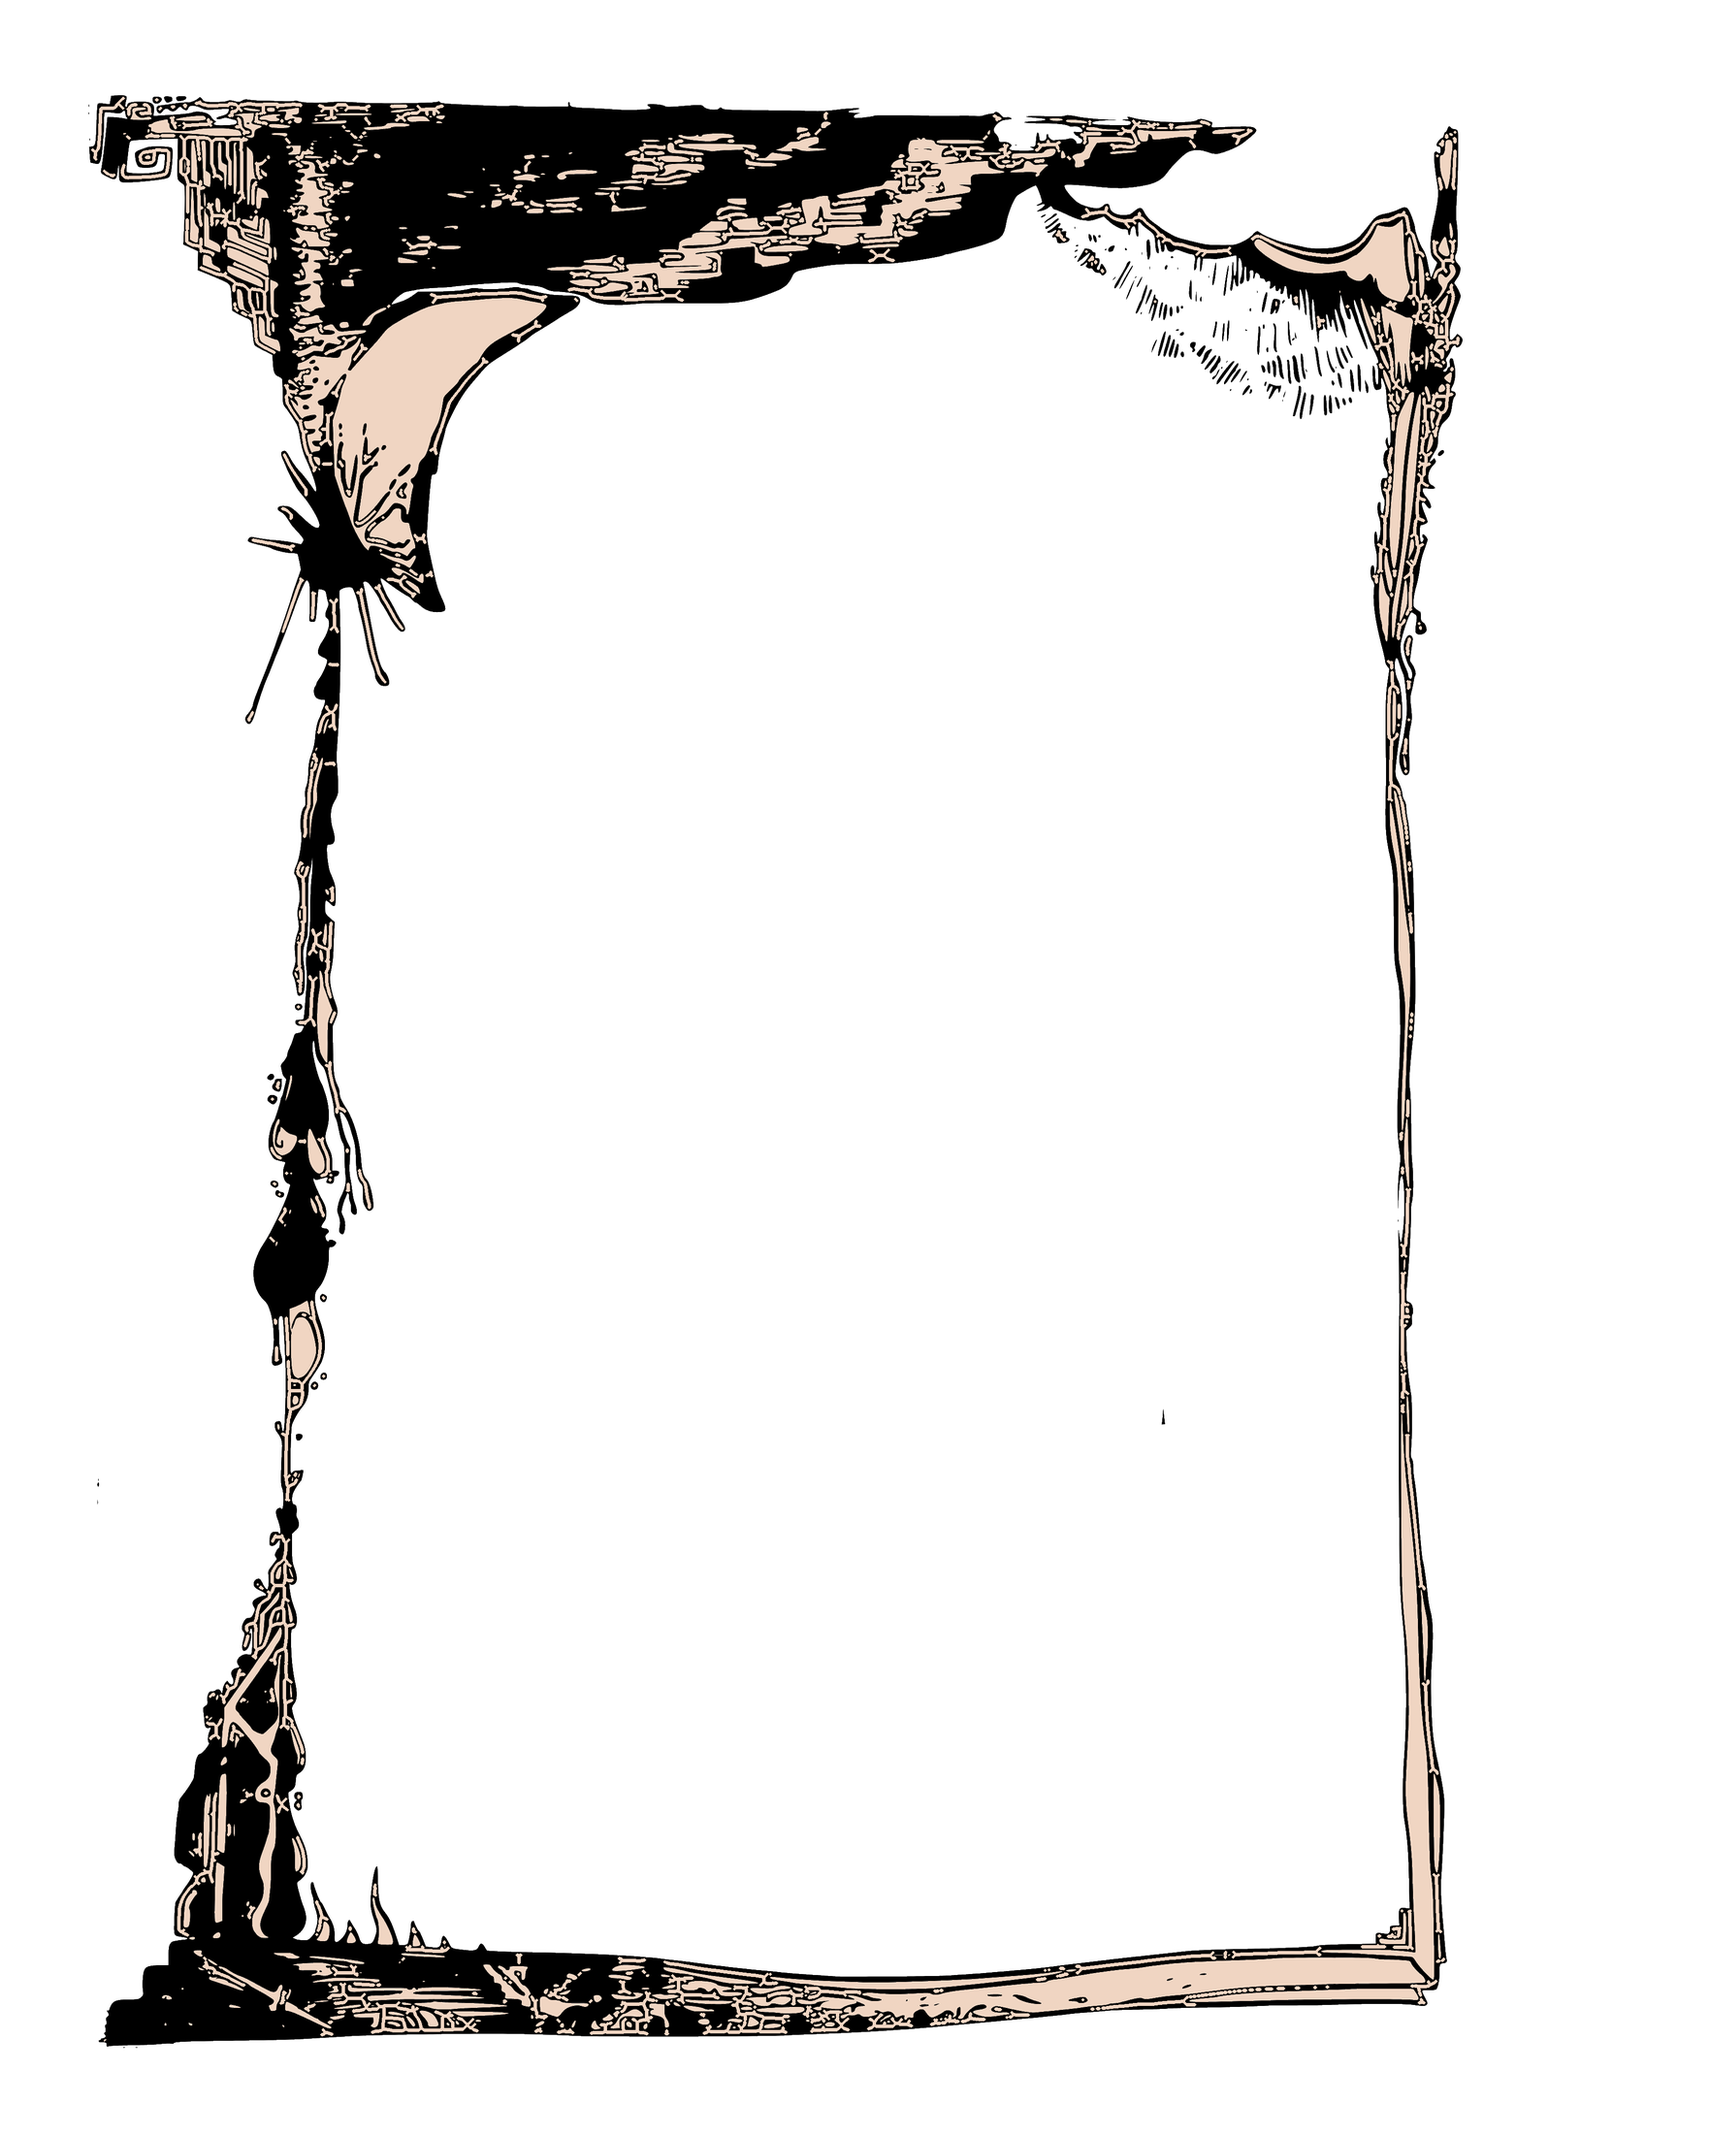
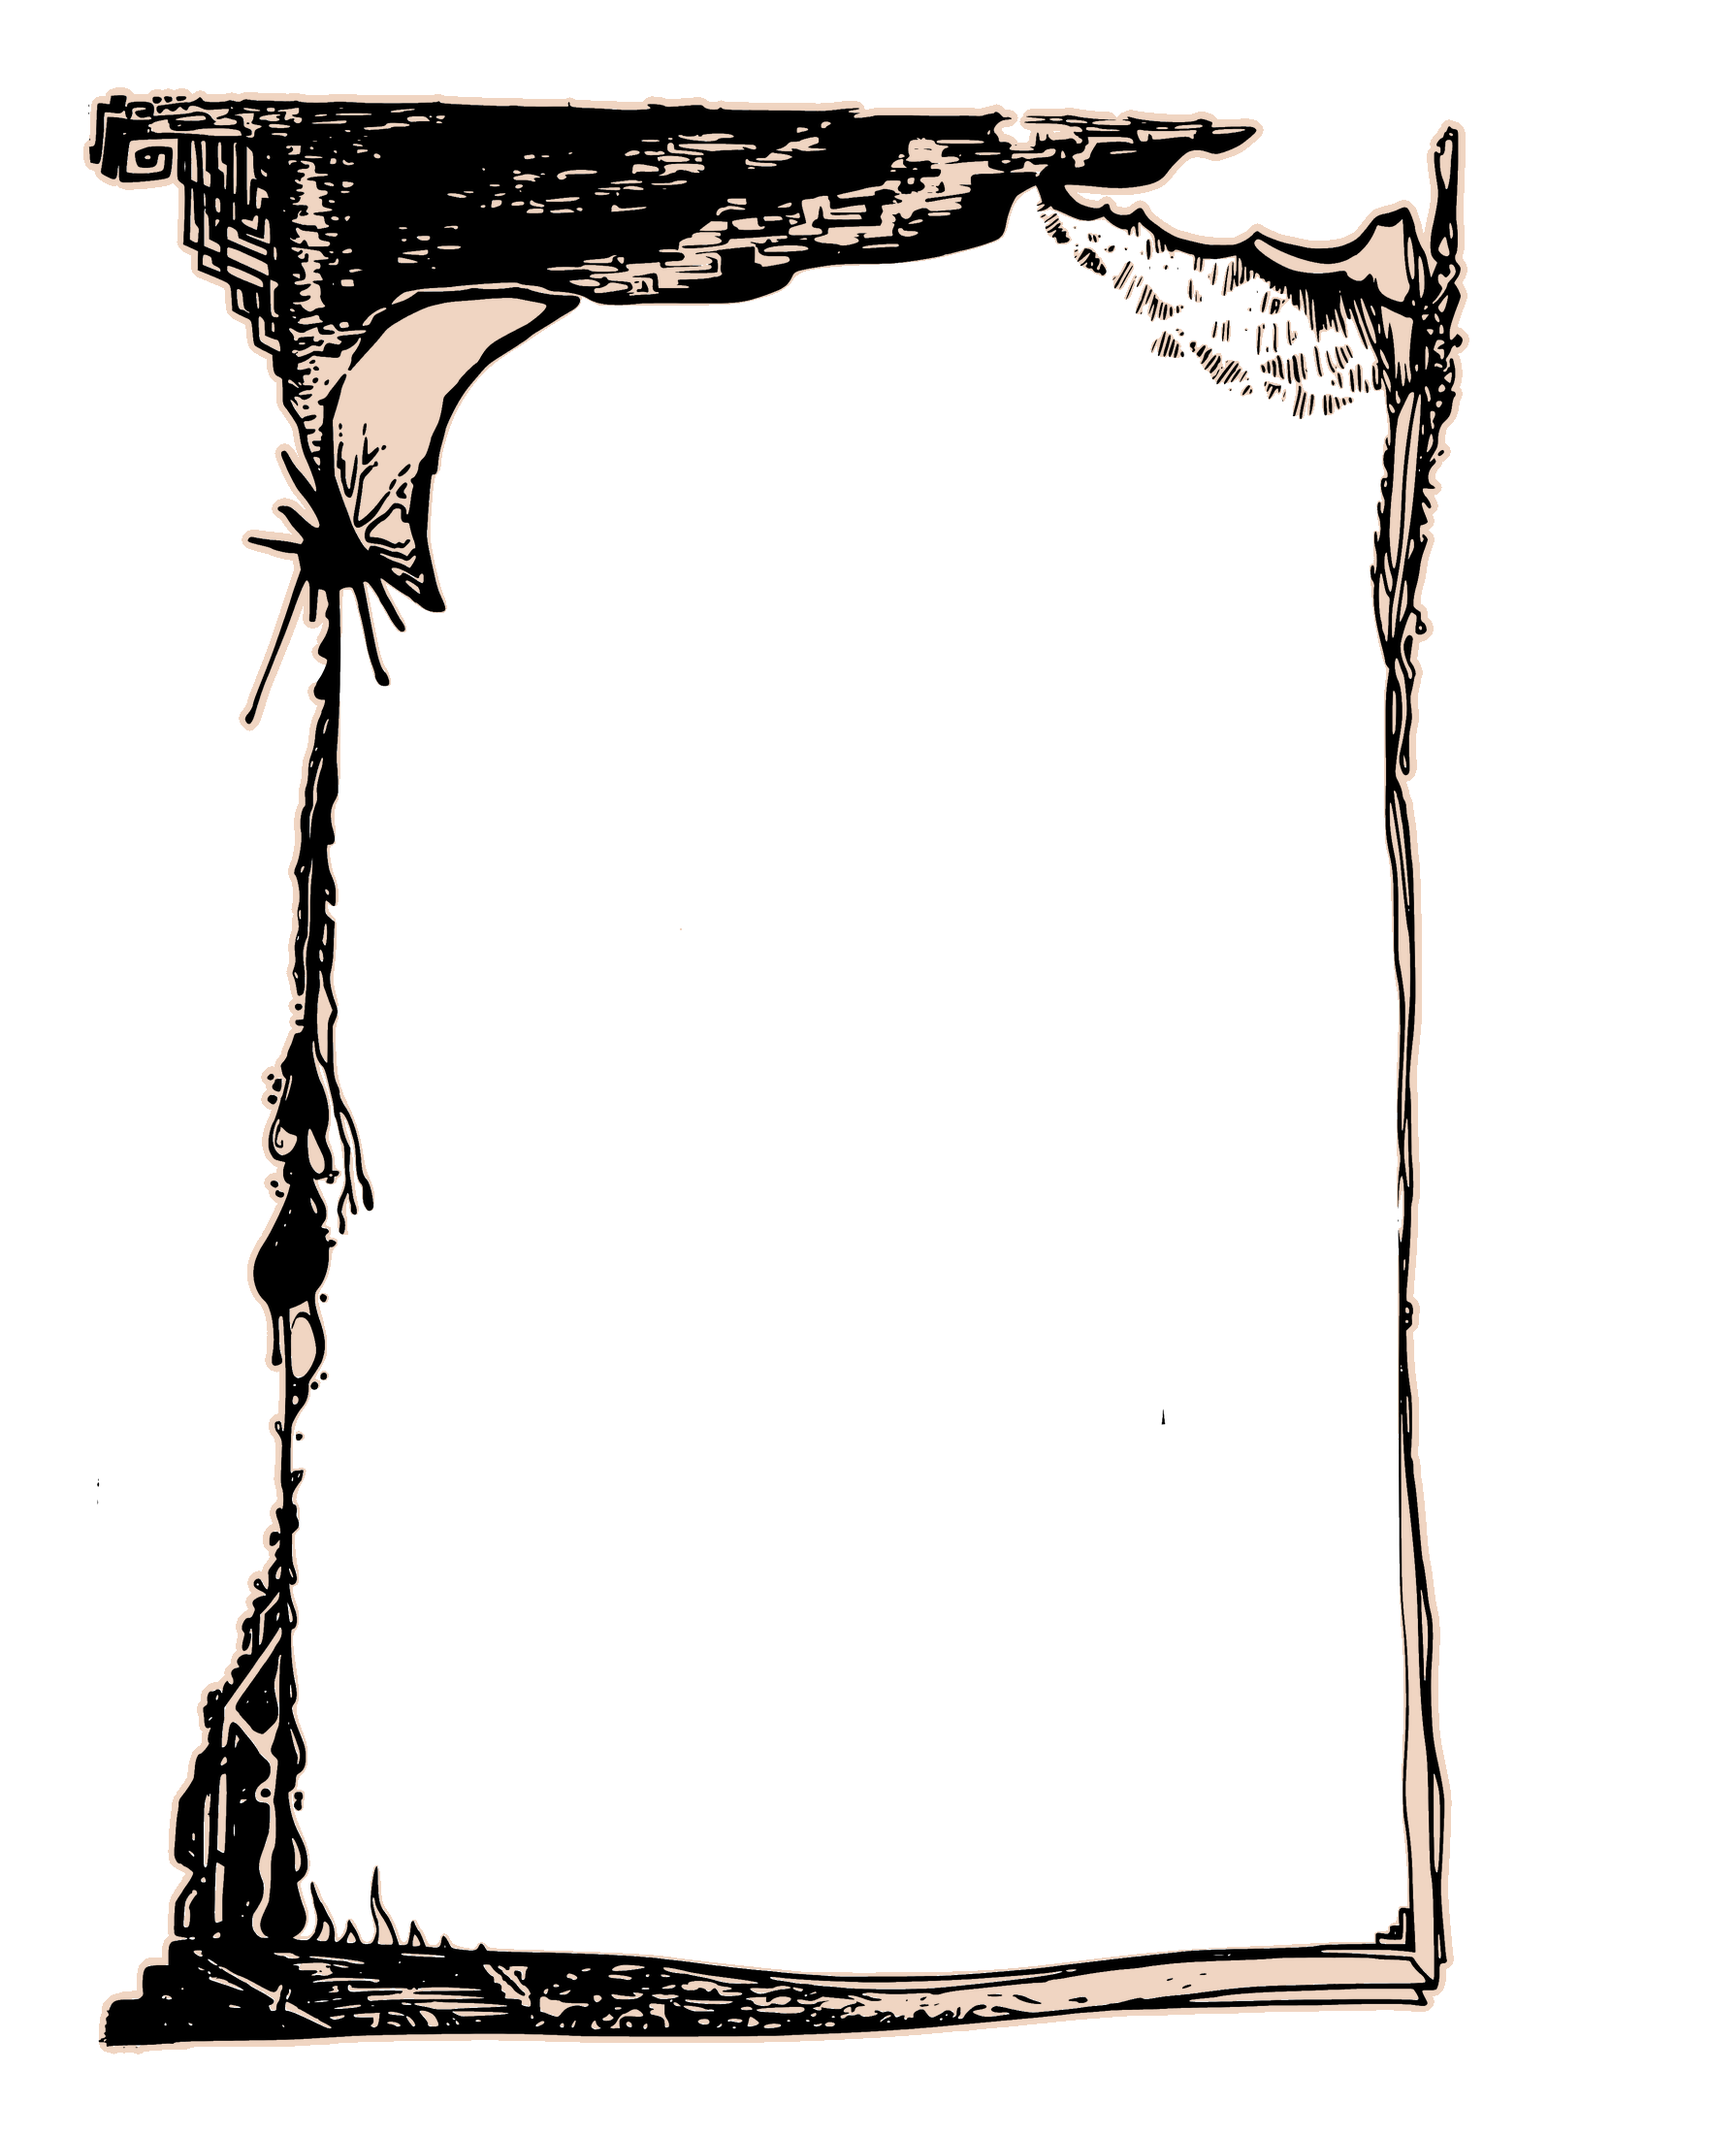
Composite the crisp vector ink over the established cream liseré
Simpler and more faithful than synthesizing the fringe: since the new
vector render and the old asset are already aligned, just take the
cream pixels straight from the established overlay (the real retouch,
not an approximation) and draw the new crisp ink on top of it. The
sharp new linework now carries the exact original liseré instead of a
skeleton-based guess.

diff --git a/audio-fr.html b/audio-fr.html
@@ -68,7 +68,7 @@
           </div>
         </div>
       </div>
-      <img src="audio-frame-overlay.png?v=11" alt="" class="native-audio-frame-overlay">
+      <img src="audio-frame-overlay.png?v=12" alt="" class="native-audio-frame-overlay">
     </div>
     <p class="bandcamp-link-below"><a class="content-link social-link" href="https://comodorosuleyman.bandcamp.com/" target="_blank" rel="noopener"><svg class="social-icon" viewBox="0 0 512 512" aria-hidden="true"><path fill="currentColor" d="M256,8C119,8,8,119,8,256S119,504,256,504,504,393,504,256,393,8,256,8Zm48.2,326.1h-181L207.9,178h181Z"/></svg>Écouter sur Bandcamp</a></p>
   </div>

diff --git a/audio-es.html b/audio-es.html
@@ -68,7 +68,7 @@
           </div>
         </div>
       </div>
-      <img src="audio-frame-overlay.png?v=11" alt="" class="native-audio-frame-overlay">
+      <img src="audio-frame-overlay.png?v=12" alt="" class="native-audio-frame-overlay">
     </div>
     <p class="bandcamp-link-below"><a class="content-link social-link" href="https://comodorosuleyman.bandcamp.com/" target="_blank" rel="noopener"><svg class="social-icon" viewBox="0 0 512 512" aria-hidden="true"><path fill="currentColor" d="M256,8C119,8,8,119,8,256S119,504,256,504,504,393,504,256,393,8,256,8Zm48.2,326.1h-181L207.9,178h181Z"/></svg>Escuchar en Bandcamp</a></p>
   </div>

diff --git a/audio-ro.html b/audio-ro.html
@@ -68,7 +68,7 @@
           </div>
         </div>
       </div>
-      <img src="audio-frame-overlay.png?v=11" alt="" class="native-audio-frame-overlay">
+      <img src="audio-frame-overlay.png?v=12" alt="" class="native-audio-frame-overlay">
     </div>
     <p class="bandcamp-link-below"><a class="content-link social-link" href="https://comodorosuleyman.bandcamp.com/" target="_blank" rel="noopener"><svg class="social-icon" viewBox="0 0 512 512" aria-hidden="true"><path fill="currentColor" d="M256,8C119,8,8,119,8,256S119,504,256,504,504,393,504,256,393,8,256,8Zm48.2,326.1h-181L207.9,178h181Z"/></svg>Ascultă pe Bandcamp</a></p>
   </div>

diff --git a/audio.html b/audio.html
@@ -68,7 +68,7 @@
           </div>
         </div>
       </div>
-      <img src="audio-frame-overlay.png?v=11" alt="" class="native-audio-frame-overlay">
+      <img src="audio-frame-overlay.png?v=12" alt="" class="native-audio-frame-overlay">
     </div>
     <p class="bandcamp-link-below"><a class="content-link social-link" href="https://comodorosuleyman.bandcamp.com/" target="_blank" rel="noopener"><svg class="social-icon" viewBox="0 0 512 512" aria-hidden="true"><path fill="currentColor" d="M256,8C119,8,8,119,8,256S119,504,256,504,504,393,504,256,393,8,256,8Zm48.2,326.1h-181L207.9,178h181Z"/></svg>Listen on Bandcamp</a></p>
   </div>
